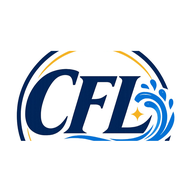
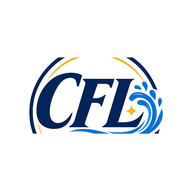
fix(brand): finalize production asset mapping

Changed region(s): [[0.0625, 0.25, 0.9375, 0.75]]

diff --git a/docs/design/BRAND_ASSETS.md b/docs/design/BRAND_ASSETS.md
@@ -1,0 +1,60 @@
+# Brand Assets
+
+This document records the current launch-ready raster assets and their source mapping. These are website assets, not final vector masters.
+
+## Public Assets
+
+- `public/images/brand/logo-primary.png`
+  - Purpose: primary header/footer brand lockup.
+  - Source: `.tmp/brand-source/01-primary-logo-source.png`
+  - Format: PNG
+  - Background: white background on the current web asset.
+  - Alt text guidance: decorative when used inside a linked brand area with an accessible label on the link.
+
+- `public/images/brand/logo-mark.png`
+  - Purpose: compact brand mark for small-size use and icon derivation.
+  - Source: `.tmp/brand-source/02-compact-mark-source.png`
+  - Format: PNG
+  - Background: white background.
+  - Alt text guidance: decorative for favicon/app icon derivatives.
+
+- `public/images/brand/badge-illustrated.png`
+  - Purpose: secondary storytelling badge for future selective use.
+  - Source: `.tmp/brand-source/03-illustrated-badge-source.png`
+  - Format: PNG
+  - Background: flattened to white to remove the baked-in checkerboard look from the source file.
+  - Alt text guidance: informative only when used as content, otherwise decorative.
+
+- `public/images/brand/hero-homepage.webp`
+  - Purpose: homepage hero artwork.
+  - Source: `.tmp/brand-source/04-homepage-hero-source.png`
+  - Format: WebP
+  - Background: image content only; the lower promotional banner was cropped out.
+  - Alt text guidance: decorative on the homepage hero block.
+
+- `public/images/brand/og-default.png`
+  - Purpose: default Open Graph and social sharing image.
+  - Source material: `.tmp/brand-source/05-og-social-source.png` plus approved brand crop work from the hero and logo sources.
+  - Format: PNG
+  - Dimensions: 1200 x 630
+  - Background: off-white with a right-side hero image panel.
+  - Alt text guidance: use the same neutral brand description in OG/Twitter metadata.
+
+## Icon Outputs
+
+- `public/favicon.ico`
+- `public/favicon-16x16.png`
+- `public/favicon-32x32.png`
+- `public/apple-touch-icon.png`
+- `public/favicon.svg`
+- `public/icon-192.png`
+- `public/icon-512.png`
+- `public/site.webmanifest`
+
+These are derived from the compact mark source and optimized for small-size browser and mobile use.
+
+## Notes
+
+- The `.tmp/brand-source/**` files are source inputs only and remain uncommitted.
+- The raster assets above are acceptable for launch but should be recreated as clean SVG/vector masters later if the brand system expands into print, signage, or apparel.
+- No supported claim text was added beyond the approved brand wording and `cflwash.com`.

diff --git a/docs/design/DESIGN.md b/docs/design/DESIGN.md
@@ -155,15 +155,9 @@ Rules:
 
 ## Current Brand Asset Implementation
 
-The launch site currently uses approved raster draft assets under `public/images/brand/`:
+The launch site uses approved raster brand assets under `public/images/brand/` and related favicon outputs. The canonical mapping and asset notes now live in [BRAND_ASSETS.md](./BRAND_ASSETS.md).
 
-- `logo-primary.png` for the header and footer identity.
-- `logo-mark.png` as the compact mark source for app icon exports.
-- `badge-illustrated.jpg` as a secondary storytelling asset for future use.
-- `hero-homepage.jpg` for the homepage hero visual.
-- `og-default.jpg` for default Open Graph and social sharing metadata.
-
-The favicon and app icons use a simplified derived `CFL` treatment for small-size browser legibility. These website assets are acceptable for the current launch integration, but they are not final SVG/vector logo masters. Future brand cleanup should recreate the primary logo, compact mark, reversed variants, favicon source, and badge artwork as production vector assets before broader print, apparel, signage, or long-term brand use.
+These website assets are acceptable for the current launch integration, but they are not final SVG/vector logo masters. Future brand cleanup should recreate the primary logo, compact mark, reversed variants, favicon source, and badge artwork as production vector assets before broader print, apparel, signage, or long-term brand use.
 
 Rendered page images should keep intrinsic dimensions or stable aspect ratios, use empty alt text when decorative, and avoid treating generated artwork as proof of completed project work.
 
